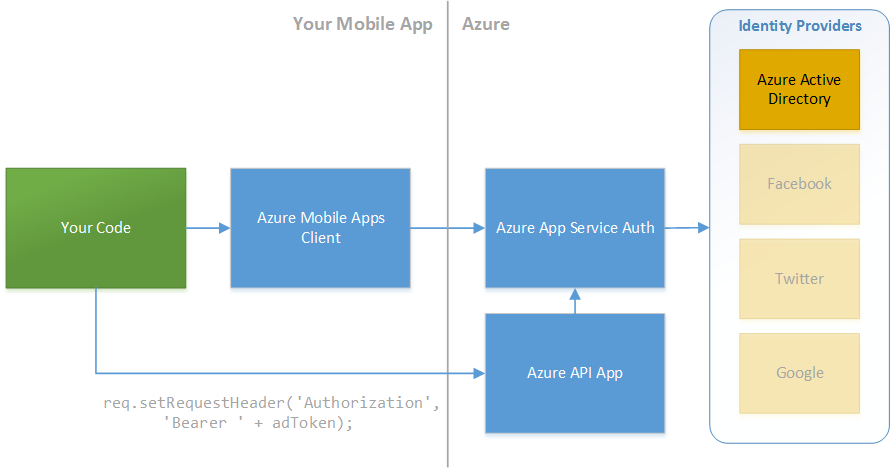
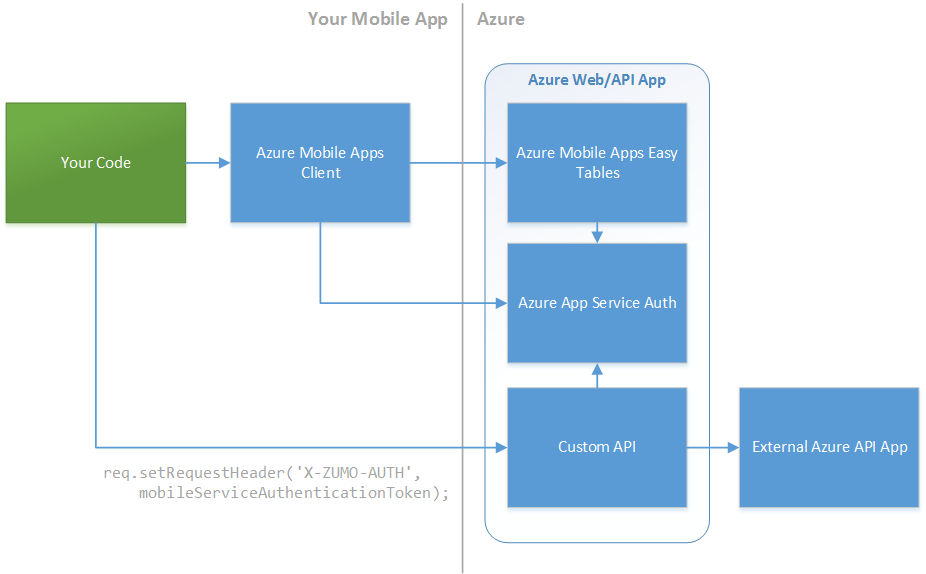
Updated docs on custom API calls

diff --git a/articles/cordova-security/cordova-security-xmit.md b/articles/cordova-security/cordova-security-xmit.md
@@ -21,6 +21,12 @@ From there, you can then [add auth into Mobile App services](https://azure.micro
 
 ![Azure Mobile Apps Easy Tables](media/cordova-security-data/auth-easy-tables.png)
 
+Azure Mobile Apps features can be added to any Azure Web or API app. As a result, you can quickly create a centralized backend that you use as a focal point for user authenticated calls to backend services.
+
+![Azure Web/API App](media/cordova-security-data/auth-api-app.png)
+
+See the next section for information on passing authorization tokens across to custom APIs.
+
 Note that if you would prefer to use the [Active Directory Authentication Library (ADAL) plugin](https://www.npmjs.com/package/cordova-plugin-ms-adal) to authenticate users in your app with Azure Active Directory or Active Directory Federation Services (ADFS) v3 and up, you can still pass the token you get from ADAL into the Mobile Apps client for interacting with the server.
 
 First, carefully follow all setup steps under **[(Optional) Configure a native client application](https://azure.microsoft.com/en-us/documentation/articles/app-service-mobile-how-to-configure-active-directory-authentication/)** in the Azure App Service AD auth article. You can then login using the auth token from ADAL as follows:
@@ -38,49 +44,9 @@ client.login("aad", {"access_token": tokenFromADAL})
 See [Azure Mobile Apps](https://azure.microsoft.com/en-us/documentation/articles/app-service-mobile-value-prop/), [Azure App Service Auth](https://azure.microsoft.com/en-us/documentation/articles/app-service-api-authentication/), and [the Cordova authentication article](./cordova-security-auth.md) for additional details.
 
 #### Pass auth tokens in request headers when using REST APIs directly
-<!--
-The Azure Mobile Apps client taps into Azure App Service Auth on the server side which means you'll also be able to connect to authenticated, custom server [App Service "API Apps"](https://azure.microsoft.com/en-us/documentation/articles/app-service-api-authentication/) or other services that also use App Service Auth. You can see how to setup user authentication for service calls [in the App Service API Apps documentation.](https://azure.microsoft.com/en-us/documentation/articles/app-service-api-dotnet-user-principal-auth/) 
--->
 Cordova apps can call JSON and REST based services without client libraries can quite easily thanks to JSON.parse(). When passing auth tokens in XHR calls to REST APIs, most implmentations use a request header rather than something like a query string that can show up in server logs.
 
-For example, the [Azure Active Directory Quick Start](https://azure.microsoft.com/en-us/documentation/articles/active-directory-devquickstarts-cordova/) has code that demonstrates calling the Azure AD Graph REST API directly using an AD token from the [ADAL Cordova plugin](https://www.npmjs.com/package/cordova-plugin-ms-adal) as the auth [bearer token](http://self-issued.info/docs/draft-ietf-oauth-v2-bearer-19.html). 
-
-<!--
-This same general approach can be applied when using the Azure Mobile Apps client when calling an Azure App Service API App as well.  The key is getting the access token, passing it along to the downstream service, and having the service validate it.
-
-![Call API App](media/cordova-security-data/auth-api-app.png)
--->
-Here's a simplified code example that runs against the publicly available AD Graph REST API:
-
-```javascript
-function get10UsersFromADGraph(adTenantId, adToken, callback) {
-    var req = new XMLHttpRequest();
-    req.open("GET", "https://graph.windows.net/" + adTenantId + "/users?api-version=2013-11-08&$top=10", true);
-    
-    // Pass in the ADAL token in the request 
-    req.setRequestHeader("Authorization", "Bearer " + adToken);
-
-    req.onload = function(e) {
-        if (e.target.status >= 200 && e.target.status < 300) {
-            // Call callback function with resulting object from API
-            callback(JSON.parse(e.target.response));
-            return;
-        } else {
-            console.error("Call failed: " + e.target.response);        
-        }    
-    };
-    
-    req.onerror = function(e) {
-        console.error("Call failed: " + e.error);
-    };
-
-    req.send();
-}
-```
-
-This general approach can be reused for services across Azure and O365 services but there are variations from service to service. See documentation on [Azure JSON based REST APIs](https://msdn.microsoft.com/en-us/library/azure/hh974476.aspx) and [O365](http://dev.office.com/getting-started/office365apis) service documentation for additional details on token passing to downstream services. 
-
-As an example of a variation, calling (custom or built-in) REST APIs deployed with your Azure Mobile App in Azure App Service is a bit different. In this case you actually need to set an **X-ZUMO-AUTH** header instead of Authorization.
+For example, calling (custom or built-in) REST APIs deployed in Azure App Service behind Azure App Service Auth requires to you set a **X-ZUMO-AUTH** header with the appropriate authentication token.
 
 Here is an code sample of calling the "/.auth/me" endpoint that can provides basic login information using a token from the Azure Mobile Apps client in the Cordova plugin:
 
@@ -122,6 +88,38 @@ client.login("aad")
         console.error(msg);
     });
 ```
+
+Note that not all services expect auth tokens to be passed as a X-ZUMO-AUTH header value. The [Azure Active Directory Quick Start](https://azure.microsoft.com/en-us/documentation/articles/active-directory-devquickstarts-cordova/) has code that demonstrates calling the Azure AD Graph REST API directly using an AD token from the [ADAL Cordova plugin](https://www.npmjs.com/package/cordova-plugin-ms-adal) as the auth [bearer token](http://self-issued.info/docs/draft-ietf-oauth-v2-bearer-19.html). 
+
+Here's a simplified code example that runs against the publicly available AD Graph REST API:
+
+```javascript
+function get10UsersFromADGraph(adTenantId, adToken, callback) {
+    var req = new XMLHttpRequest();
+    req.open("GET", "https://graph.windows.net/" + adTenantId + "/users?api-version=2013-11-08&$top=10", true);
+    
+    // Pass in the ADAL token in the request 
+    req.setRequestHeader("Authorization", "Bearer " + adToken);
+
+    req.onload = function(e) {
+        if (e.target.status >= 200 && e.target.status < 300) {
+            // Call callback function with resulting object from API
+            callback(JSON.parse(e.target.response));
+            return;
+        } else {
+            console.error("Call failed: " + e.target.response);        
+        }    
+    };
+    
+    req.onerror = function(e) {
+        console.error("Call failed: " + e.error);
+    };
+
+    req.send();
+}
+```
+
+This general approach can be reused for services across Azure and O365 services but there are variations from service to service. See documentation on [Azure JSON based REST APIs](https://msdn.microsoft.com/en-us/library/azure/hh974476.aspx) and [O365](http://dev.office.com/getting-started/office365apis) service documentation for additional details on token passing to downstream services. 
 
 ###Certificate Pinning
 Another trick used in high security situations is something called [certificate pinning](https://www.owasp.org/index.php/Certificate_and_Public_Key_Pinning). The idea here is you can significantly reduce the chances of a [man-in-the-middle attack](https://en.wikipedia.org/wiki/Man-in-the-middle_attack) by "pinning" the allowed public certificates accepted by your app when making the connection to highly trusted, official certificate authorities (like Verisign, Geotrust, GoDaddy) that you are actually using. The end result is that someone trying to execute a man in the middle attack would need a valid SSL certificate from that specific authority to trick your app into connecting to it.

diff --git a/articles/cordova-security/cordova-security-auth.md b/articles/cordova-security/cordova-security-auth.md
@@ -10,7 +10,7 @@ Security is a very broad topic that covers a number of different aspects of an a
 A critical task for application security is authenticating and authorizing users accessing your app and its associated local or remote data. In this article we'll touch on some options that can help get you get auth up and running.
 
 ##Azure App Service Auth and Azure Mobile Apps
-[Azure App Service](https://azure.microsoft.com/en-us/services/app-service/) is a suite of services designed to help you build great web and mobile apps. [Azure Mobile Apps](https://azure.microsoft.com/en-us/services/app-service/mobile/) are mobile integrated client apps that take advantage of features within the broader Azure App Service along with some additional useful features and client libraries.
+[Azure App Service](https://azure.microsoft.com/en-us/services/app-service/) is a suite of services designed to help you build great web and mobile apps. [Azure Mobile Apps](https://azure.microsoft.com/en-us/services/app-service/mobile/) are mobile integrated client apps that take advantage of features within the broader Azure App Service including Web Apps and API Apps along with some additional useful features and client libraries.
 
 A core first step in accessing all of these great services, however, is authorizing users both to access the app for the app to then access data in the cloud. Fortunately, the Cordova plugin for Azure Mobile Apps has an unified authentication interface that currently supports authenticating against Azure Active Directory, Facebook, Google, Twitter, and Microsoft accounts. The unified interface means that you're abstracted from downstream changes and can expect additional provider options and features in the future to streamline things even more. 
 
@@ -24,8 +24,6 @@ You can add it to your app as follows:
     ```
     cordova plugin add cordova-plugin-ms-azure-mobile-apps --save
     ```
-
-<!--The Azure Mobile Apps client taps into Azure App Service Auth on the server side which means you'll be able to quickly connect to authenticated, custom server [App Service "API Apps"](https://azure.microsoft.com/en-us/documentation/articles/app-service-api-authentication/) or other services that also use App Service Auth. You can lock down data or other services you have in Azure using the .NET or Node.js server SDKs.-->
 
 See the **[Azure Mobile Apps authentication documentation](https://azure.microsoft.com/en-us/documentation/articles/app-service-mobile-cordova-get-started-users/)** and the article on **[securely transmitting data](./cordova-security-xmit.md)** for additional details on token passing.
 
@@ -70,9 +68,9 @@ client.login("aad", {"access_token": tokenFromADAL})
 ```
 
 ##JavaScript & 3rd Party Options
-If neither of the above options meet your needs, there are a number of 3rd party solutions that may be of use. First note that many Single Sign-On (SSO) solutions including [Auth0](https://auth0.com/) actually provide Cordova plugins or explictly support Cordova in their JavaScript client libraries. If you already have a SSO provider, be sure to check with them to see what best practices they provide for Cordova apps.
+Cordova also can take advantage of pure JavaScript based solutions to authenticate against Oauth providers thanks to the **InAppBrowser** plugin. See [this article](http://phonegap-tips.com/articles/google-api-oauth-with-phonegaps-inappbrowser.html) for an excellent overview on the general approach JavaScript based solutions take. These options can be useful when client libraries are not available. The **[ngCordovaOauth](https://github.com/nraboy/ng-cordova-oauth)** library encapsulates this approach to allow you to target an impressive array of different Oauth providors including on-prem ADFS. However, in general we recommend using provider Cordova plugins, the ADAL plugin, or Azure when security is of paramount concern.
 
-Cordova also can take advantage of pure JavaScript based solutions to authenticate against Oauth providers like [ng-cordova-oauth](https://github.com/nraboy/ng-cordova-oauth) thanks to the **InAppBrowser** plugin. See [this article](http://phonegap-tips.com/articles/google-api-oauth-with-phonegaps-inappbrowser.html) for details on the general approach these JavaScript based solutions take along with information on rolling your own if you so choose. However, in general we recommend using SSO provider Cordova plugins, the ADAL plugin, or Azure when security is of paramount concern.
+If neither of the above options meet your needs, there are a number of 3rd party solutions that may be of use. First note that many Single Sign-On (SSO) solutions including [Auth0](https://auth0.com/) actually provide Cordova plugins or explictly support Cordova in their JavaScript client libraries. If you already have a SSO provider, be sure to check with them to see what best practices they provide for Cordova apps.
 
 ##Additional Security Topics
 - [Learn about Cordova platform and app security features](./cordova-security-platform.md)
